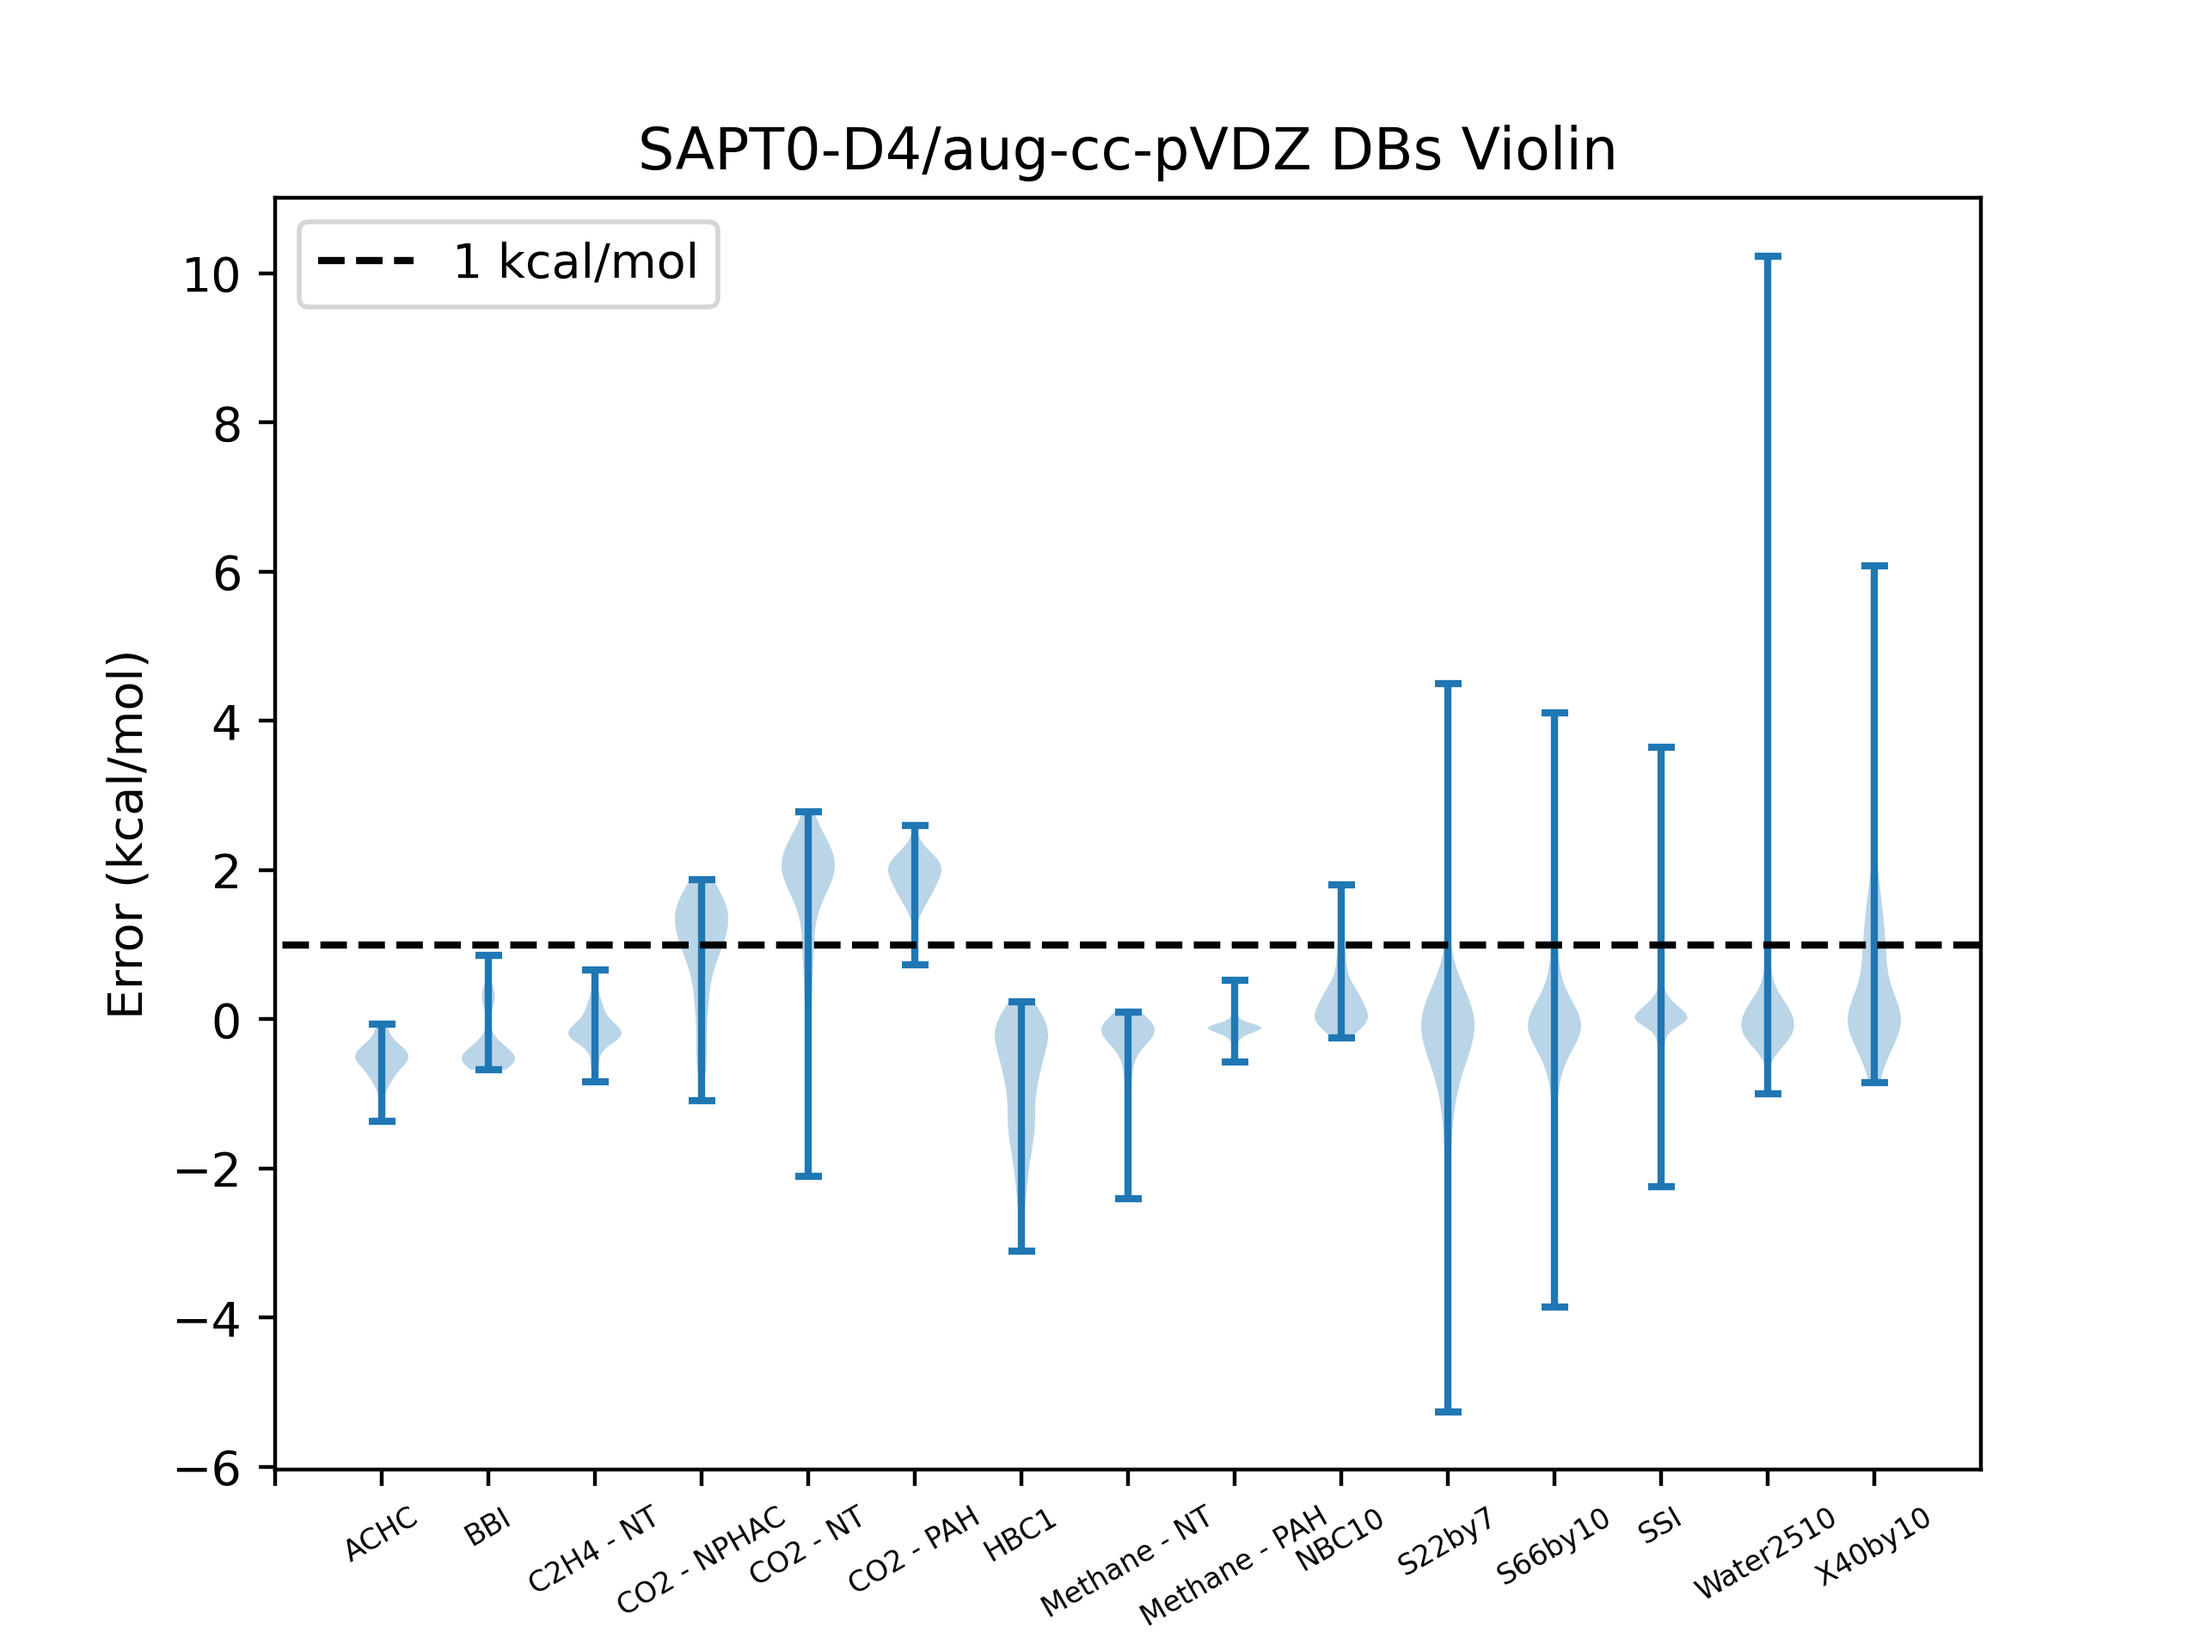
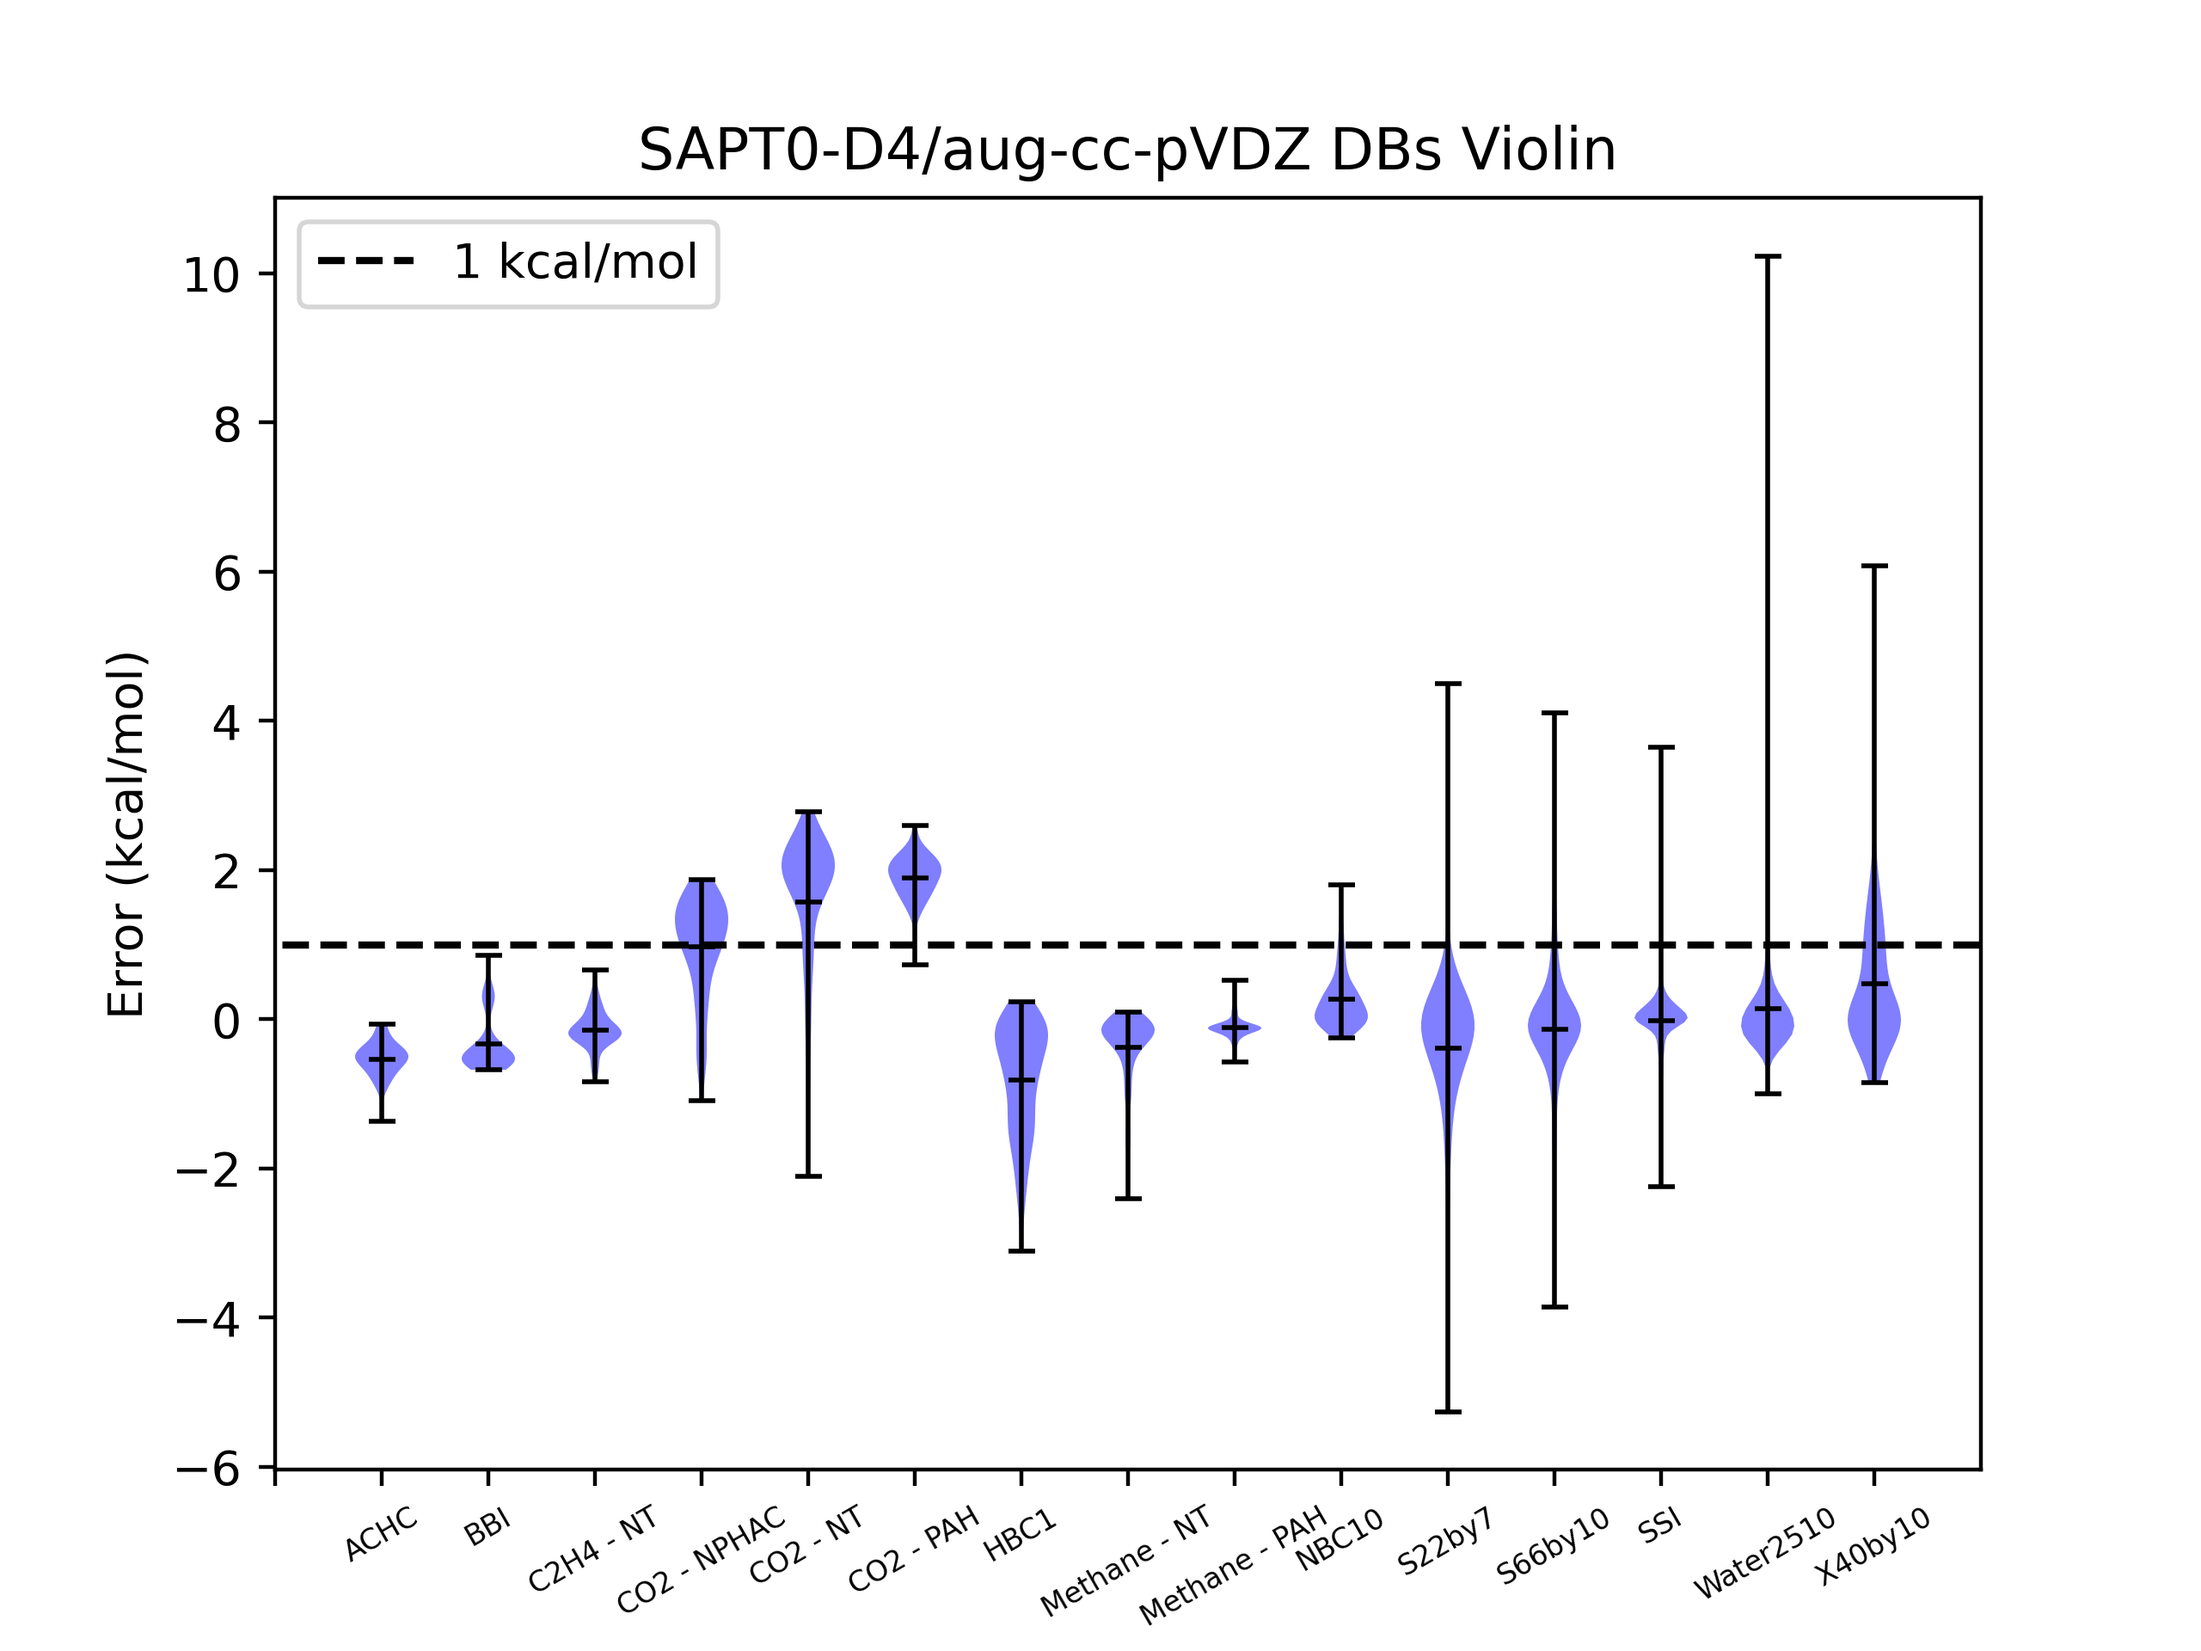
saptdft violins

diff --git a/main.py b/main.py
@@ -66,6 +66,7 @@ def optimize_paramaters(df, bases) -> None:
     adz_opt_params = [0.829861, 0.706055, 1.123903]
     params = [1.61679827, 0.44959224, 3.35743605]
     params_d3 = [0.7683276390453782, 0.09699087897359535, 3.6407701963142745]
+    params = src.paramsTable.paramsDict()["HF"][1:]
     for i in bases:
         print(i)
         # print("D3")
@@ -141,28 +142,37 @@ def main():
     print(df.columns)
     params_dict = src.paramsTable.paramsDict()
     params_d4 = params_dict["sadz"][1:]
-
     params_d3 = params_dict["sdadz"][1:]
-    print(params_d3)
-    print(params_d4)
-    df = compute_D3_D4_values_for_params(df, params_d3, params_d4, "adz")
-    print(df)
-    print(df.columns)
-    df.to_pickle(pkl_name)
-    return
+    # print(params_d3)
+    # print(params_d4)
+    # df = compute_D3_D4_values_for_params(df, params_d3, params_d4, "adz")
+    # df.to_pickle(pkl_name)
     df["SAPT0-D4/aug-cc-pVDZ"] = df.apply(
         lambda row: row["HF_adz"] + row["-D4 (adz)"],
         axis=1,
     )
-
-    df["adz_diff"] = df["SAPT0-D4/aug-cc-pVDZ"] - df["Benchmark"]
+    df["SAPT0-D3/aug-cc-pVDZ"] = df.apply(
+        lambda row: row["HF_adz"] + row["-D3 (adz)"],
+        axis=1,
+    )
     df["HF_adz_diff"] = df["HF_adz"] - df["Benchmark"]
-    print(df["adz_diff"].describe())
-    print(df["HF_adz_diff"].describe())
-    src.plotting.plot_dbs(df, "adz_diff", "SAPT0-D4/aug-cc-pVDZ", "adz_diff")
-    src.plotting.plot_dbs(df, "HF_adz_diff", "HF/aug-cc-pVDZ", "HF_adz_diff")
 
-    """
+    df["adz_diff_d4"] = df["SAPT0-D4/aug-cc-pVDZ"] - df["Benchmark"]
+    df["adz_diff_d3"] = df["SAPT0-D3/aug-cc-pVDZ"] - df["Benchmark"]
+    # print(df["adz_diff_d3"].describe())
+    # print(df["adz_diff_d4"].describe())
+    # src.plotting.plot_dbs(df, "adz_diff", "SAPT0-D4/aug-cc-pVDZ", "adz_diff")
+    # src.plotting.plot_dbs(df, "HF_adz_diff", "HF/aug-cc-pVDZ", "HF_adz_diff")
+    # src.plotting.plot_dbs_d3_d4(
+    #     df,
+    #     "adz_diff_d3",
+    #     "adz_diff_d4",
+    #     "D3",
+    #     "D4",
+    #     "SAPT0-D/aug-cc-pVDZ",
+    #     "adz_diff_d3_d4",
+    # )
+
     df_saptdft = df[~df["pbe0_adz_saptdft"].isna()].copy()
     k = qcel.constants.conversion_factor("hartree", "kcal / mol")
     df_saptdft["pbe0_adz_saptdft_ndisp"] = df_saptdft.apply(
@@ -174,7 +184,6 @@ def main():
         axis=1,
     )
     print(df_saptdft[["Benchmark", "pbe0_adz_saptdft_ndisp", "pbe0_adz_saptdft_sum", "HF_adz"]])
-    """
 
     bases = [
         # "HF_dz",
@@ -190,7 +199,7 @@ def main():
         # "HF_qz_conv_e_4",
         "pbe0_adz_saptdft_ndisp",
     ]
-    # optimize_paramaters(df_saptdft, bases)
+    optimize_paramaters(df_saptdft, bases)
     # print(df.iloc[0]["pbe0_adz_saptdft"] * 627.509)
 
     # src.setup.gather_data6(

diff --git a/src/plotting.py b/src/plotting.py
@@ -39,7 +39,22 @@ def plot_dbs(df, df_col, title_name, pfn) -> None:
 
     fig = plt.figure(dpi=400)
     ax = plt.subplot(111)
-    ax.violinplot(vData)
+    vplot = ax.violinplot(vData, showmeans=True, showmedians=False)
+    # for partname in ('cbars', 'cmins', 'cmaxes', 'cmeans', 'cmedians'):
+    for n, partname in enumerate(['cbars', 'cmins', 'cmaxes', 'cmeans']):
+        vp = vplot[partname]
+        vp.set_edgecolor("black")
+        vp.set_linewidth(1)
+        vp.set_alpha(1)
+
+    for n, pc in enumerate(vplot["bodies"], 1):
+        if n%2 != 0:
+            pc.set_facecolor("blue")
+        else:
+            pc.set_facecolor("blue")
+        pc.set_alpha(0.5)
+        # pc.set_edgecolor("black")
+
 
     vLabels.insert(0, "")
     xs = [i for i in range(len(vLabels))]
@@ -57,6 +72,60 @@ def plot_dbs(df, df_col, title_name, pfn) -> None:
     ax.set_xlabel("Database")
     ax.set_ylabel("Error (kcal/mol)")
     plt.title(f"{title_name} DBs Violin")
+    plt.savefig(f"plots/{pfn}_dbs_violin.png")
+    plt.clf()
+    return
+
+
+def plot_dbs_d3_d4(df, c1, c2, l1, l2, title_name, pfn) -> None:
+    """
+    """
+    dbs = list(set(df["DB"].to_list()))
+    dbs = sorted(dbs, key=lambda x: x.lower())
+    vLabels, vData = [], []
+    for d in dbs:
+        df2 = df[df['DB'] == d]
+        vData.append(df2[c1].to_list())
+        vData.append(df2[c2].to_list())
+        vLabels.append(f"{d} - {l1}")
+        vLabels.append(f"{d} - {l2}")
+
+    fig = plt.figure(dpi=400)
+    ax = plt.subplot(111)
+    vplot = ax.violinplot(vData, showmeans=True, showmedians=False)
+    # for partname in ('cbars', 'cmins', 'cmaxes', 'cmeans', 'cmedians'):
+    for n, partname in enumerate(['cbars', 'cmins', 'cmaxes', 'cmeans']):
+        vp = vplot[partname]
+        vp.set_edgecolor("black")
+        vp.set_linewidth(1)
+        vp.set_alpha(1)
+
+    for n, pc in enumerate(vplot["bodies"], 1):
+        if n%2 != 0:
+            pc.set_facecolor("blue")
+        else:
+            pc.set_facecolor("red")
+        pc.set_alpha(0.5)
+        # pc.set_edgecolor("black")
+
+
+    vLabels.insert(0, "")
+    xs = [i for i in range(len(vLabels))]
+    xs_error = [i for i in range(-1, len(vLabels) + 1)]
+    ax.plot(
+        xs_error,
+        [1 for i in range(len(xs_error))],
+        "k--",
+        label="1 kcal/mol",
+    )
+    ax.set_xticks(xs)
+    plt.setp(ax.set_xticklabels(vLabels), rotation=30, fontsize="6")
+    ax.set_xlim((0, len(vLabels)))
+    ax.legend(loc="upper left")
+    ax.set_xlabel("Database")
+    ax.set_ylabel("Error (kcal/mol)")
+    plt.title(f"{title_name} DBs Violin")
+    # plt.show()
     plt.savefig(f"plots/{pfn}_dbs_violin.png")
     plt.clf()
     return

diff --git a/src/optimization.py b/src/optimization.py
@@ -108,7 +108,8 @@ def find_max_e(
     rmse = (df["diff"] ** 2).mean() ** 0.5
     df["diff_abs"] = df["diff"].abs()
     max_e = df["diff_abs"].max()
-    mad = df["diff"].mad()
+    # mad = df["diff"].mad()
+    mad = abs(df['diff'] - df['diff'].mean()).mean()
     df = df.sort_values(by=["diff_abs"], ascending=False)
     df = df.reset_index(drop=False)
     print("        1. MAE  = %.4f" % mae)
@@ -195,6 +196,7 @@ def compute_int_energy_stats(
     assert t == 0, f"The HF_col provided has np.nan values present, {t}"
     diff = np.zeros(len(df))
     r4r2_ls = r4r2.r4r2_vals_ls()
+    print(f"{params = }")
     df["d4"] = df.apply(
         lambda row: compute_bj_from_dimer_AB_all_C6s(
             params,
@@ -224,16 +226,16 @@ def compute_int_energy_least_squares(
     params: [float],
     df: pd.DataFrame,
     hf_key: str = "HF INTERACTION ENERGY",
-    ban_neg_params: bool = False,
+    # ban_neg_params: bool = False,
 ):
     """
     compute_int_energy is used to optimize paramaters for damping function in dftd4
     """
     rmse = 0
-    if ban_neg_params:
-        for i in params:
-            if i < 0:
-                return [10 for i in range(len(df))]
+    # if ban_neg_params:
+    #     for i in params:
+    #         if i < 0:
+    #             return [10 for i in range(len(df))]
     r4r2_ls = r4r2.r4r2_vals_ls()
     df["d4"] = df.apply(
         lambda row: compute_bj_from_dimer_AB_all_C6s(
@@ -378,8 +380,10 @@ def optimization_least_squares(
     )
     print("\nResults\n")
     out_params = ret.x
+    print(f"{out_params = }")
     mae, rmse, max_e, mad, mean_diff = compute_int_energy_stats(out_params, df, hf_key)
     # return out_params, mae, rmse, max_e
+    print(out_params)
     return out_params, mae, rmse, max_e, mad, mean_diff
 
 
@@ -428,6 +432,7 @@ def opt_cross_val(
     stats_np = np.zeros((nfolds, 4))
     p_out = np.zeros((nfolds, len(start_params)))
     # mp, mmae, mrmse, mmax_e, mmad, mmean_diff = optimization(df, start_params, hf_key)
+    print(start_params)
     mp = optimizer_func(df, start_params, hf_key)
     mmae, mrmse, mmax_e, mmad, mmean_diff = compute_int_energy_stats_func(
         mp, df, hf_key

diff --git a/latex_outfiles/G_pbe0_adz_saptdft_ndisp_5f_P.tex b/latex_outfiles/G_pbe0_adz_saptdft_ndisp_5f_P.tex
@@ -1,0 +1,11 @@
+\begin{tabular}{llrrrrrrr}
+ & Optimization Algorithm & s8 & a1 & a2 & RMSE & MAD & MD & MAX_E \\
+method &  &  &  &  &  &  &  &  \\
+pbe0_adz_saptdft_ndisp full & Powell & 1.121310 & 1.195368 & -1.176825 & 0.8944 & 0.5019 & -0.2447 & 9.0241 \\
+pbe0_adz_saptdft_ndisp fold 1 & Powell & 1.160471 & 1.196105 & -1.173144 & 1.1198 & 0.5788 & -0.2047 & 9.5767 \\
+pbe0_adz_saptdft_ndisp fold 2 & Powell & 1.132443 & 1.195782 & -1.175065 & 0.9341 & 0.5255 & -0.2240 & 6.3366 \\
+pbe0_adz_saptdft_ndisp fold 3 & Powell & 1.115941 & 1.195191 & -1.176920 & 0.8170 & 0.4783 & -0.2513 & 4.8598 \\
+pbe0_adz_saptdft_ndisp fold 4 & Powell & 1.095296 & 1.192785 & -1.181525 & 0.7780 & 0.4581 & -0.2451 & 4.8395 \\
+pbe0_adz_saptdft_ndisp fold 5 & Powell & 1.108333 & 1.195275 & -1.176786 & 0.8071 & 0.4742 & -0.2720 & 6.0254 \\
+pbe0_adz_saptdft_ndisp & Powell & 1.121310 & 1.195368 & -1.176825 & 0.8912 & 0.5030 & -0.2394 & 9.5767 \\
+\end{tabular}

diff --git a/src/paramsTable.py b/src/paramsTable.py
@@ -28,6 +28,7 @@ def paramsDict() -> {}:
         "stz": [1.0, 0.846624, 0.629833, 1.525463],
         "sdatz": [1.0, 0.764028, 0.112638, 3.639607],
         "satz": [1.0, 0.844703, 0.668897, 1.350892],
+        "sdft_pbe0_adz": [1.0, 1.1223852449709826, 1.1956254519254155, -1.177877609414902],
     }
     return params_dict
 
